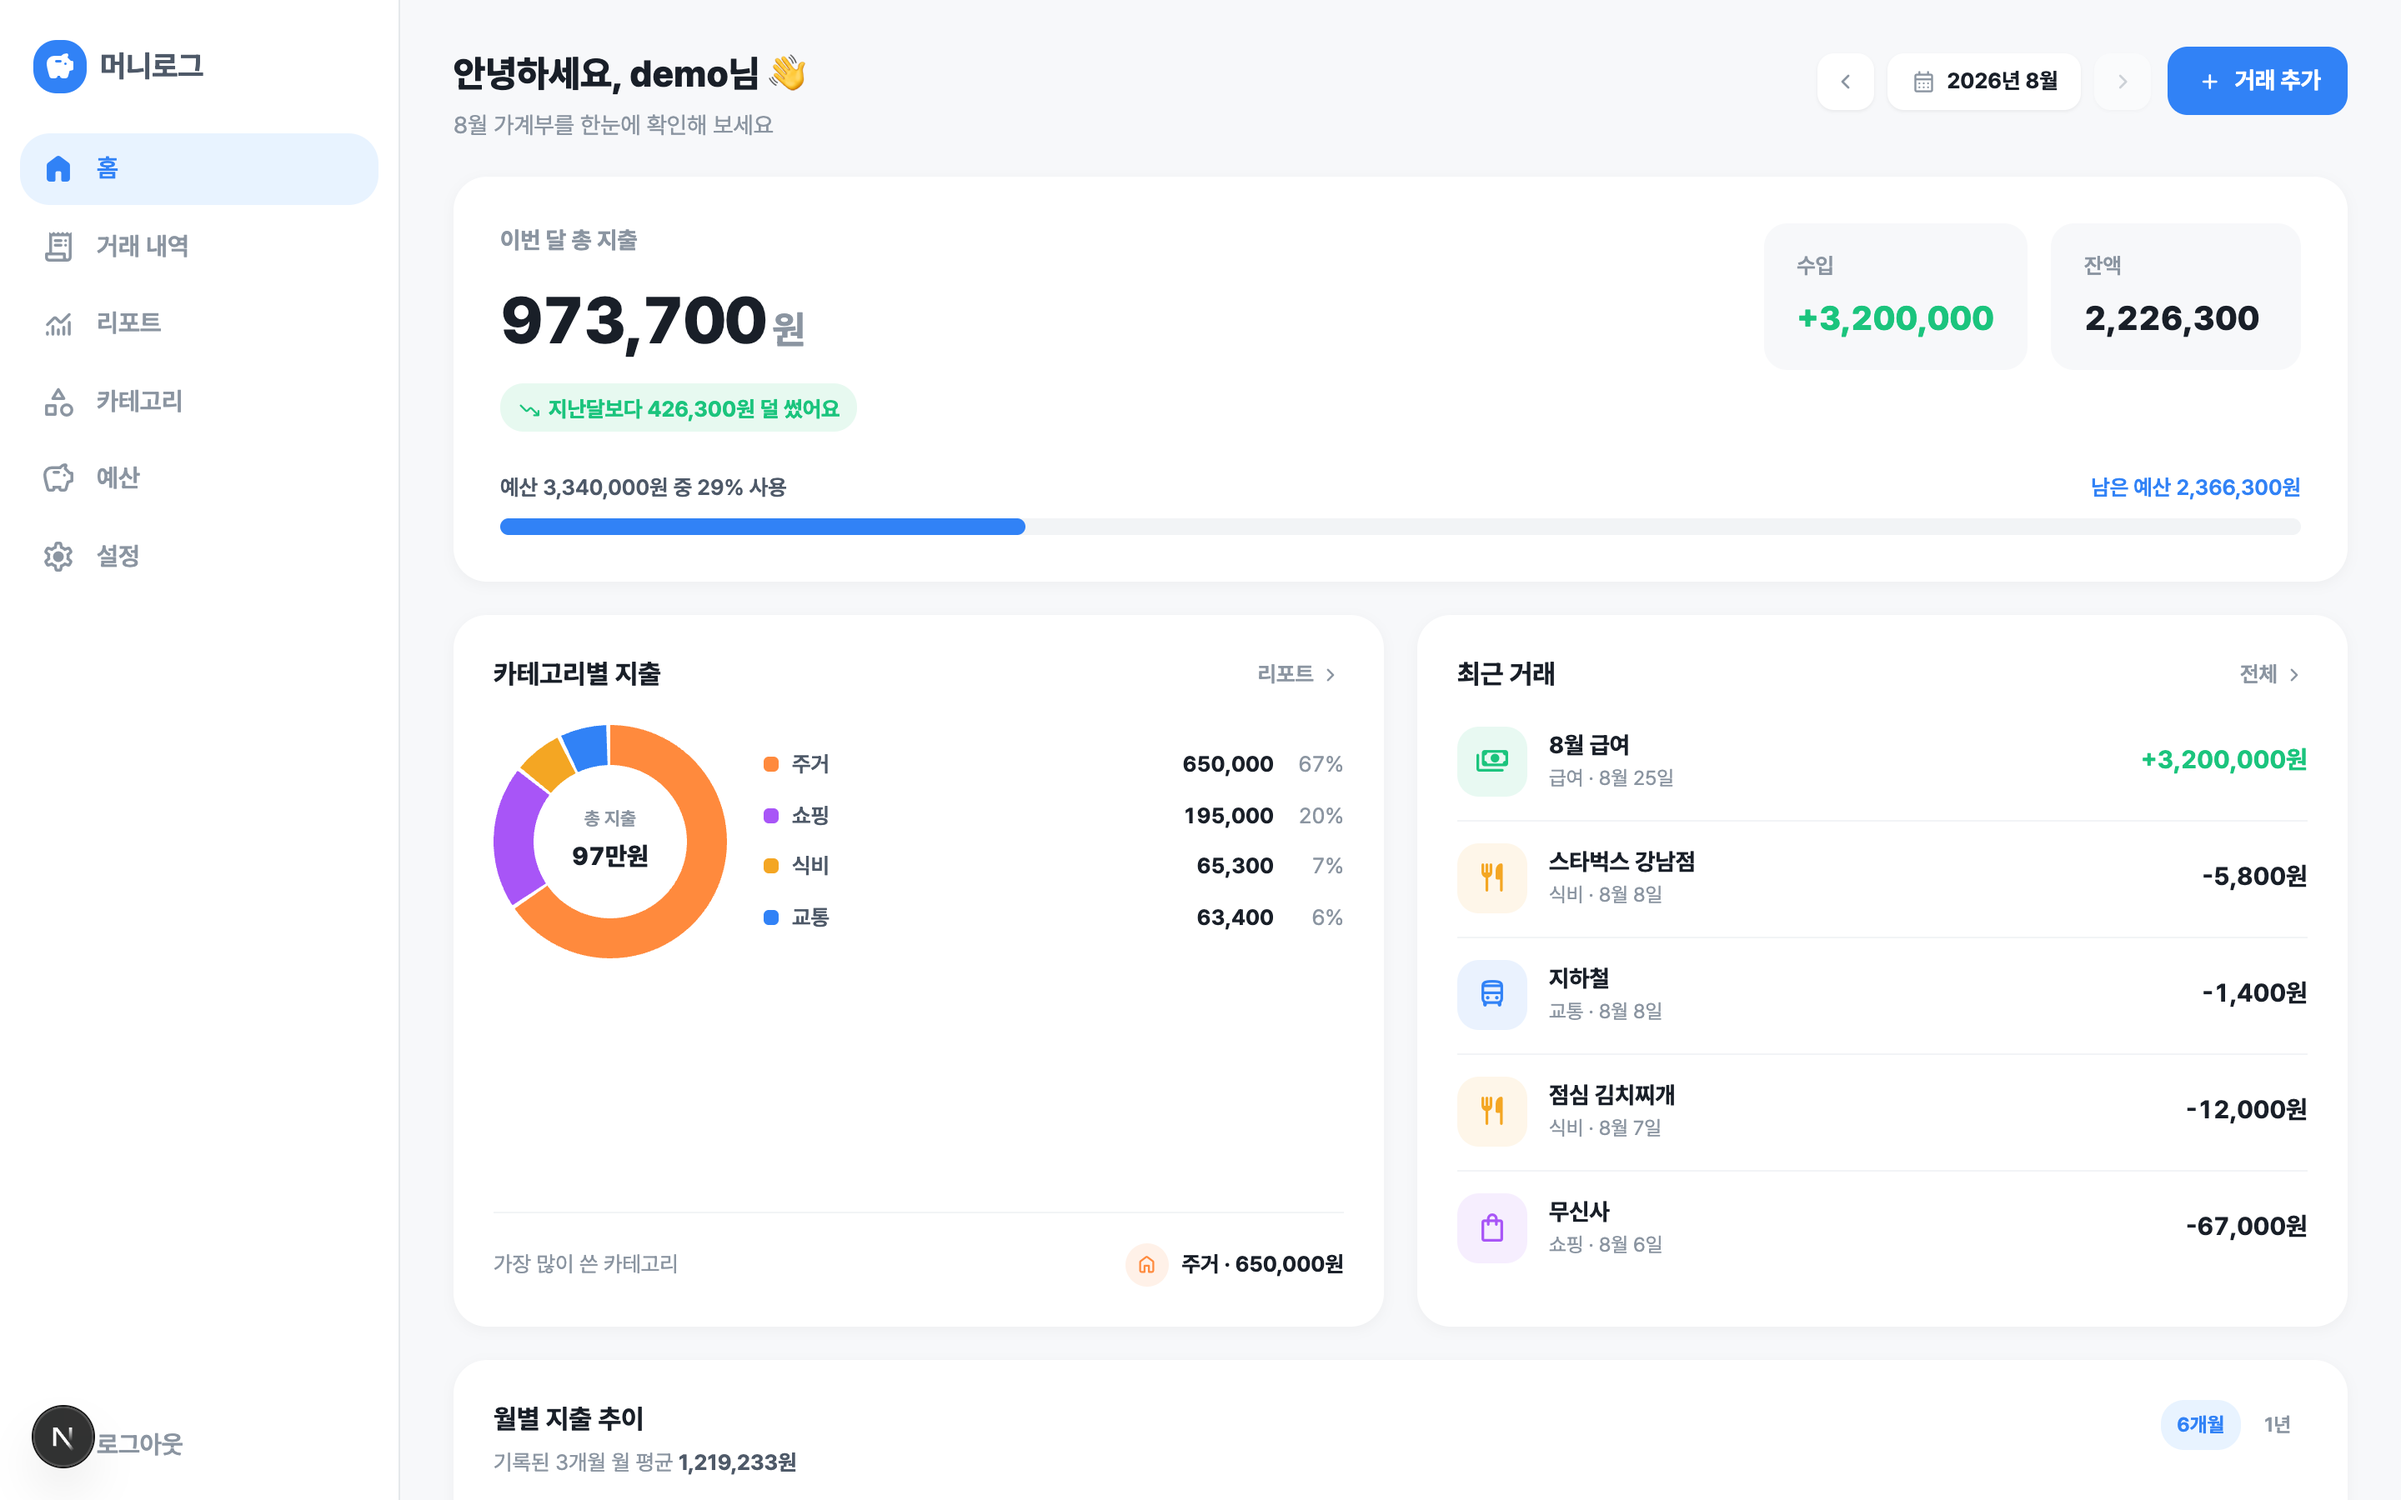
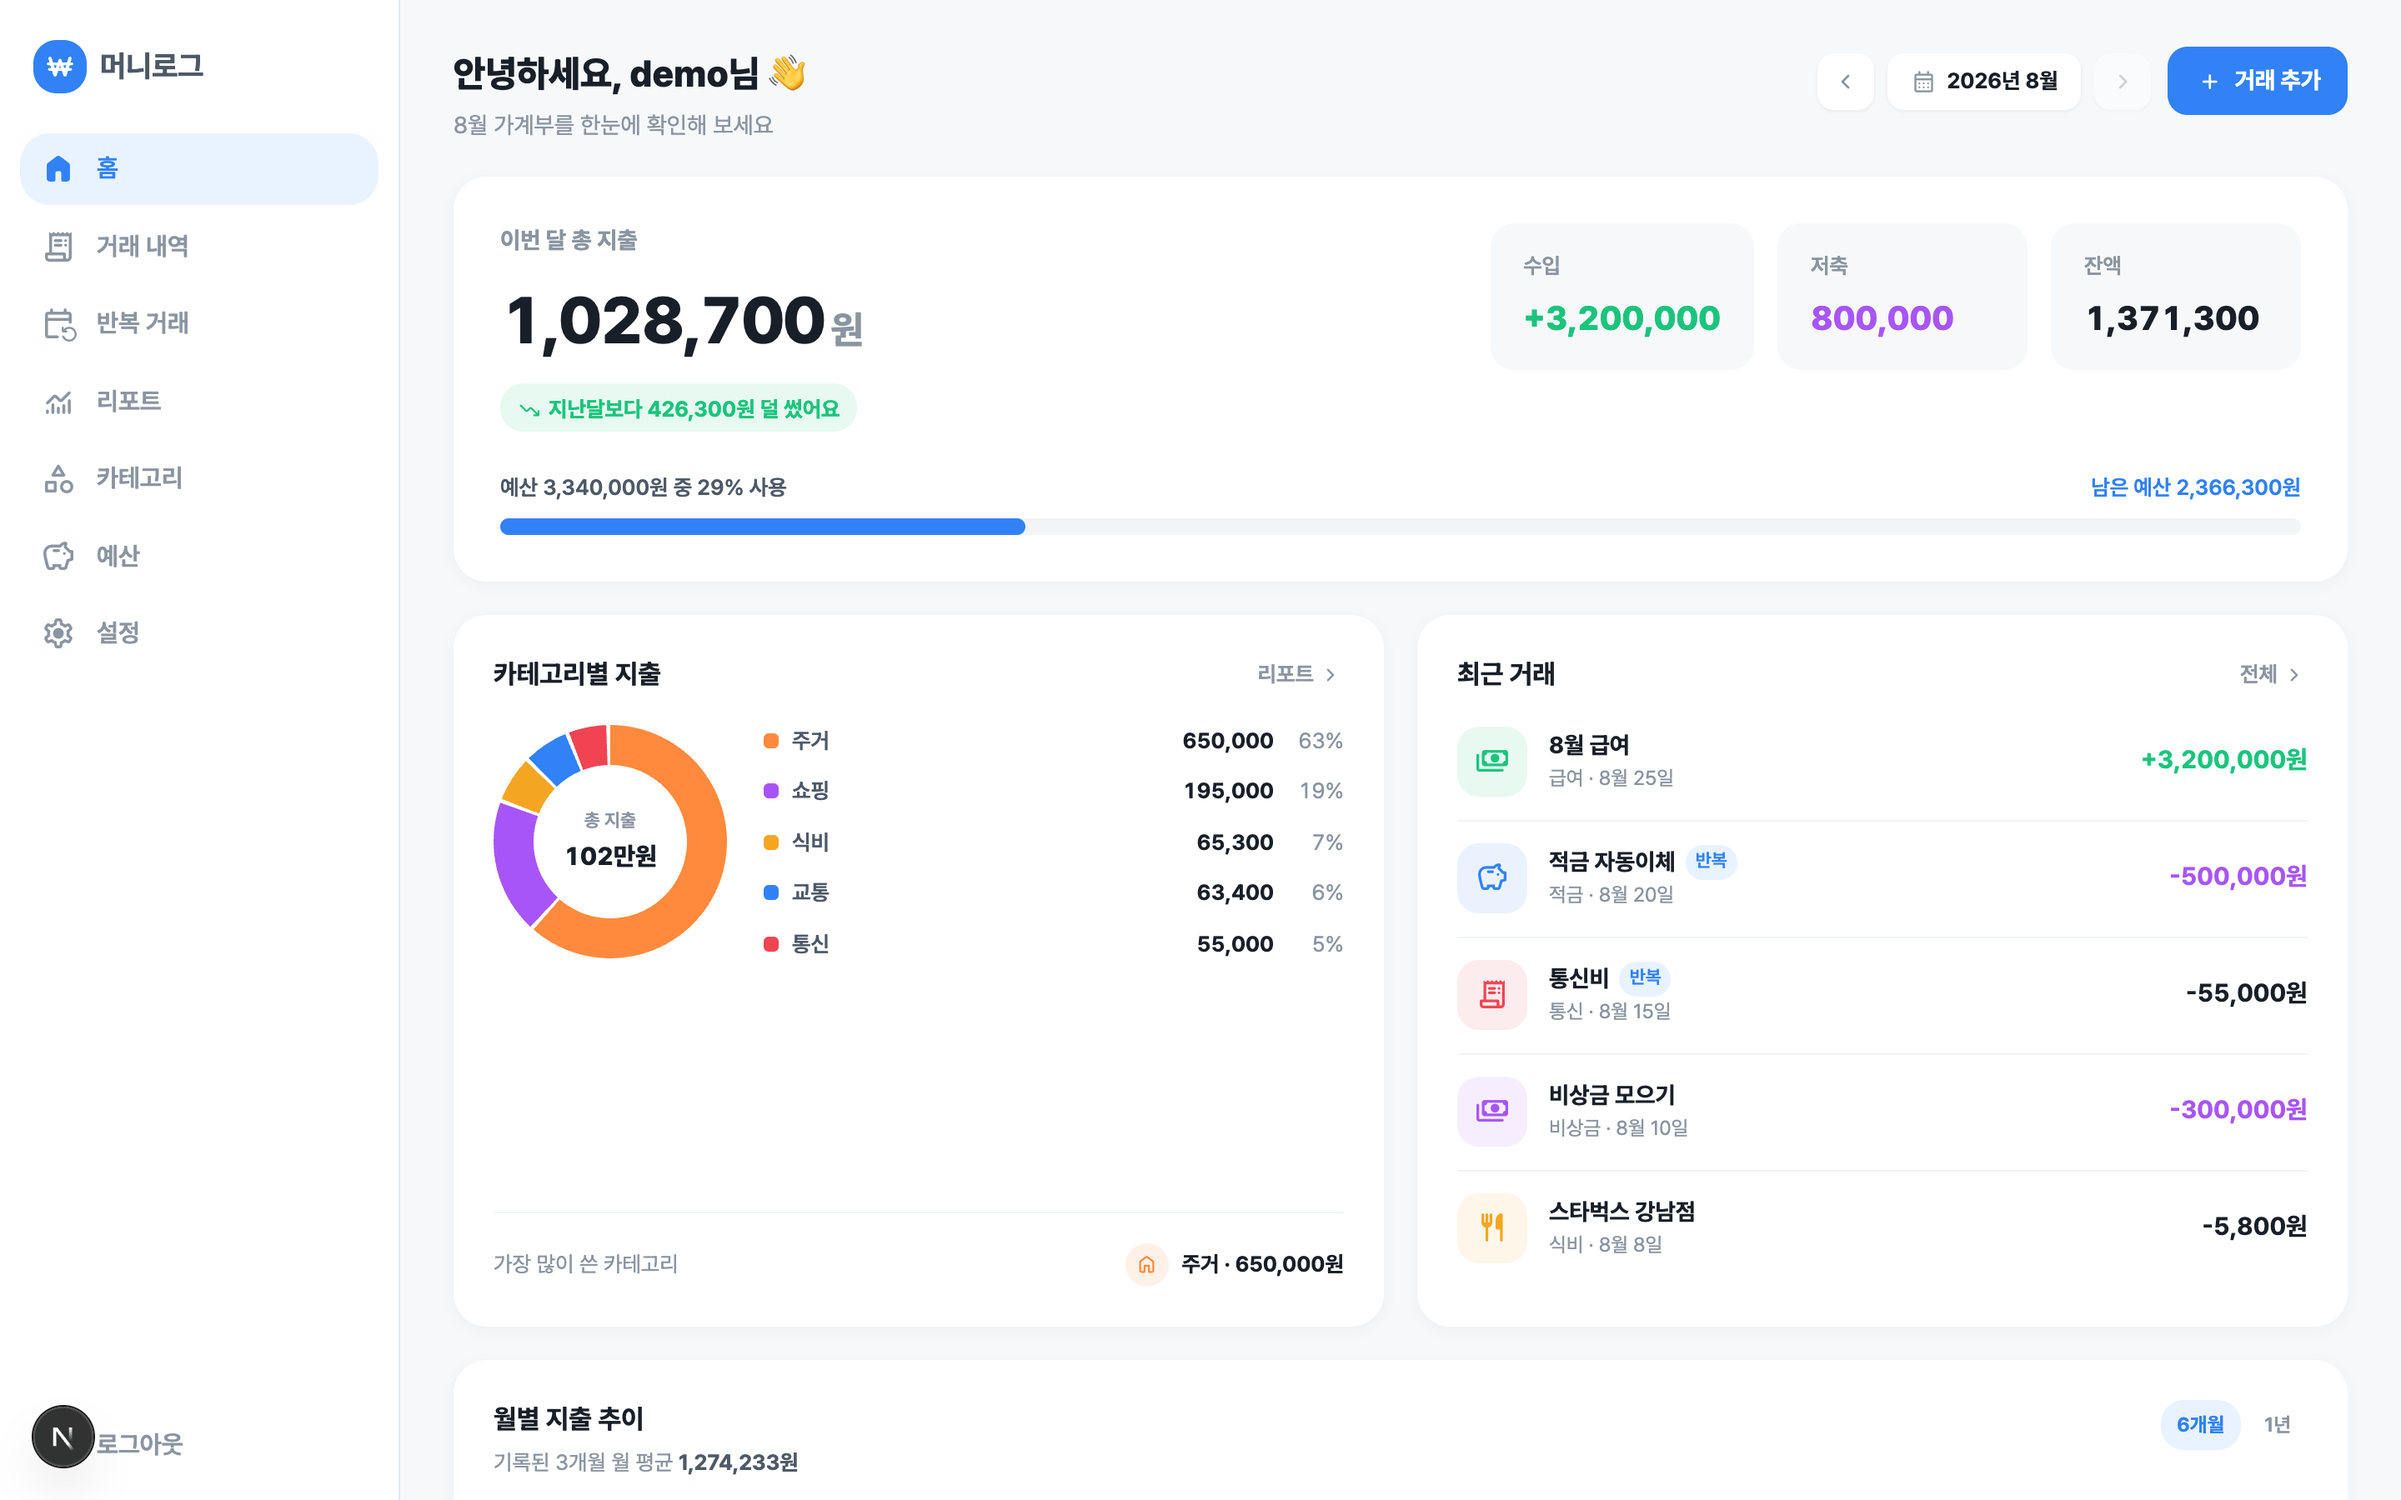
docs: README.md 수정

diff --git a/src/components/transactions/summary-cards.tsx b/src/components/transactions/summary-cards.tsx
@@ -21,13 +21,16 @@ export function SummaryCards({
   return (
     <div className="flex gap-3.5">
       <Card label="총 수입" className="text-income">
-        +{formatAmount(income)}원
+        {income > 0 && "+"}
+        {formatAmount(income)}원
       </Card>
       <Card label="총 지출" className="text-foreground">
-        -{formatAmount(expense)}원
+        {expense > 0 && "-"}
+        {formatAmount(expense)}원
       </Card>
       <Card label="총 저축" className="text-saving">
-        -{formatAmount(saving)}원
+        {saving > 0 && "-"}
+        {formatAmount(saving)}원
       </Card>
       <Card label="합계" className="text-primary">
         {total >= 0 ? "+" : "-"}
